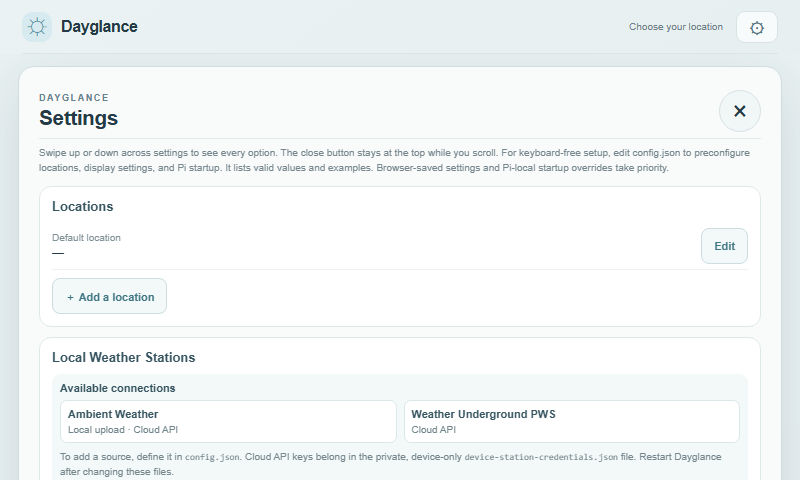
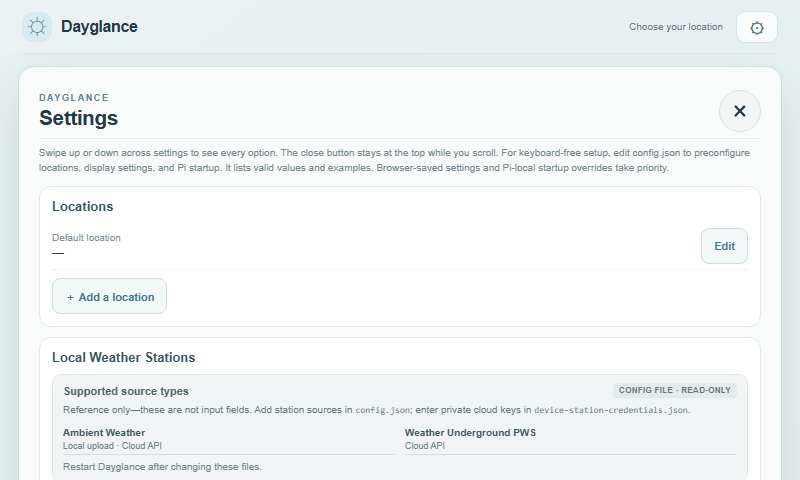
fix: distinguish config-only station options

Changed region(s): [[0.0625, 0.7812, 0.9062, 1.0]]

diff --git a/styles.css b/styles.css
@@ -21,7 +21,7 @@
 .hourly-navigation .hourly-list{scrollbar-width:none}.hourly-navigation .hourly-list::-webkit-scrollbar{display:none}
 @media(max-width:650px){.settings-screen{inset:48px 0 0;padding:8px}.settings-card{padding:13px}.settings-grid{grid-template-columns:1fr}.location-settings{grid-column:auto}.settings-section{padding:10px}}
 @media(max-height:420px){.settings-screen{inset:42px 0 0;padding:6px}.settings-card{padding:10px}.settings-grid{gap:6px;margin-top:6px}.settings-section{padding:8px}.settings-section h2{margin-bottom:5px}.setting-row{min-height:35px}.settings-heading{padding-bottom:5px}}
-.station-observation-status{display:block;margin:2px 0 0 7px;color:#397a65;font-size:9px;font-weight:600;line-height:1.2}.current-today-button{grid-template-rows:1fr auto auto}.station-settings{grid-column:1/-1}.station-supported-options{padding:8px;border-radius:9px;background:#f3f8f8;color:#365560;font-size:11px}.station-supported-options>strong{display:block;margin-bottom:6px}.station-option-list{display:grid;grid-template-columns:1fr 1fr;gap:7px}.station-option{display:grid;gap:4px;padding:7px;border:1px solid #dbe8e9;border-radius:7px;background:#fff}.station-option span{font-weight:700}.station-option small{color:#71858c;font-size:10px}.station-supported-options code{font-size:9px}.station-empty{padding:5px 0}.station-integration-row{display:grid;grid-template-columns:minmax(0,1fr) minmax(155px,220px);align-items:center;gap:10px;min-height:52px;padding:6px 0;border-bottom:1px solid #edf1f2}.station-integration-row:last-child{border-bottom:0}.station-integration-name{display:grid;gap:3px;min-width:0}.station-integration-name strong{font-size:12px;overflow:hidden;text-overflow:ellipsis}.station-integration-name small{font-size:10px;color:#819198}.station-integration-row select{width:100%;min-width:0;height:38px;padding:0 9px;border:1px solid #cfdddf;border-radius:8px;background:#fff;color:var(--ink);font-size:11px}.station-integration-row select:focus-visible{outline:3px solid #b6d8df}@media(max-width:650px){.station-integration-row{grid-template-columns:1fr;gap:6px}.station-settings{grid-column:auto}.station-option-list{grid-template-columns:1fr}}
+.station-observation-status{display:block;margin:2px 0 0 7px;color:#397a65;font-size:9px;font-weight:600;line-height:1.2}.current-today-button{grid-template-rows:1fr auto auto}.station-settings{grid-column:1/-1}.station-supported-options{padding:8px 10px;border:1px solid #e1e7e8;border-radius:9px;background:#f1f4f4;color:#50666d;font-size:11px}.station-supported-heading{display:flex;align-items:center;justify-content:space-between;gap:8px}.station-config-badge{padding:3px 6px;border-radius:4px;background:#e4e9e9;color:#64777b;font-size:8px;font-weight:700;letter-spacing:.04em;text-transform:uppercase}.station-reference-note{margin:5px 0;color:#657a80}.station-option-list{display:grid;grid-template-columns:1fr 1fr;gap:10px;margin:6px 0 2px}.station-option{display:grid;gap:3px;min-width:0;padding:3px 0;border:0;border-bottom:1px solid #d6dfe0;background:transparent}.station-option strong{font-size:10px;font-weight:700;color:#3e575f}.station-option small{color:#71858c;font-size:9px}.station-restart-note{margin:5px 0 0}.station-supported-options code{font-size:9px}.station-empty{padding:5px 0}.station-integration-row{display:grid;grid-template-columns:minmax(0,1fr) minmax(155px,220px);align-items:center;gap:10px;min-height:52px;padding:6px 0;border-bottom:1px solid #edf1f2}.station-integration-row:last-child{border-bottom:0}.station-integration-name{display:grid;gap:3px;min-width:0}.station-integration-name strong{font-size:12px;overflow:hidden;text-overflow:ellipsis}.station-integration-name small{font-size:10px;color:#819198}.station-integration-row select{width:100%;min-width:0;height:38px;padding:0 9px;border:1px solid #cfdddf;border-radius:8px;background:#fff;color:var(--ink);font-size:11px}.station-integration-row select:focus-visible{outline:3px solid #b6d8df}@media(max-width:650px){.station-integration-row{grid-template-columns:1fr;gap:6px}.station-settings{grid-column:auto}.station-option-list{grid-template-columns:1fr}}
 .settings-location-actions{display:flex;gap:6px}.hourly-list::-webkit-scrollbar-thumb{border-width:6px}
 .settings-screen{overflow-x:hidden;overflow-y:auto;overscroll-behavior-y:contain;-webkit-overflow-scrolling:touch;touch-action:pan-y pinch-zoom;scrollbar-width:none;-ms-overflow-style:none}
 .settings-screen::-webkit-scrollbar{display:none;width:0;height:0}

diff --git a/index.html b/index.html
@@ -138,12 +138,13 @@
             <section class="settings-section station-settings" id="station-settings">
               <h2>Local Weather Stations</h2>
               <div class="station-supported-options" aria-label="Supported weather-station connections">
-                <strong>Available connections</strong>
+                <div class="station-supported-heading"><strong>Supported source types</strong><span class="station-config-badge">Config file · read-only</span></div>
+                <p class="settings-help station-reference-note">Reference only—these are not input fields. Add station sources in <code>config.json</code>; enter private cloud keys in <code>device-station-credentials.json</code>.</p>
                 <div class="station-option-list">
-                  <div class="station-option"><span>Ambient Weather</span><small>Local upload · Cloud API</small></div>
-                  <div class="station-option"><span>Weather Underground PWS</span><small>Cloud API</small></div>
+                  <div class="station-option"><strong>Ambient Weather</strong><small>Local upload · Cloud API</small></div>
+                  <div class="station-option"><strong>Weather Underground PWS</strong><small>Cloud API</small></div>
                 </div>
-                <p class="settings-help">To add a source, define it in <code>config.json</code>. Cloud API keys belong in the private, device-only <code>device-station-credentials.json</code> file. Restart Dayglance after changing these files.</p>
+                <p class="settings-help station-restart-note">Restart Dayglance after changing these files.</p>
               </div>
               <div id="station-integrations-list"></div>
               <p class="settings-help">A city can use one configured station for current observations. Forecasts stay with the weather provider. Weathercloud does not currently provide an official API for retrieving station data.</p>

diff --git a/tests/test_server_config.py b/tests/test_server_config.py
@@ -105,9 +105,15 @@ class DeviceSettingsConfigTests(unittest.TestCase):
             page = response.read().decode("utf-8")
         settings = page.split('id="station-settings"', 1)[1].split("</section>", 1)[0]
         self.assertNotIn("hidden", settings.split(">", 1)[0])
-        self.assertIn("Ambient Weather", settings)
-        self.assertIn("Local upload · Cloud API", settings)
-        self.assertIn("Weather Underground PWS", settings)
+        providers = settings.split('<div class="station-supported-options"', 1)[1].split('<div id="station-integrations-list"', 1)[0]
+        self.assertIn("Ambient Weather", providers)
+        self.assertIn("Local upload · Cloud API", providers)
+        self.assertIn("Weather Underground PWS", providers)
+        self.assertIn("Config file · read-only", providers)
+        self.assertIn("Reference only—these are not input fields", providers)
+        self.assertNotIn("<input", providers)
+        self.assertNotIn("<select", providers)
+        self.assertNotIn("<button", providers)
         self.assertIn("device-station-credentials.json", settings)
 
     def test_device_file_overrides_config_defaults(self):

diff --git a/tests/test_weather_station.py b/tests/test_weather_station.py
@@ -111,6 +111,17 @@ class StationConfigurationTests(unittest.TestCase):
         with self.assertRaisesRegex(ValueError, "Only one enabled"):
             server.load_station_configuration()
 
+    def test_supports_station_data_for_more_than_three_cities(self):
+        sources = [
+            {"id": f"station-{index}", "provider": "ambient-weather", "connection": "local-upload",
+             "enabled": True, "sourceIp": f"192.168.1.{60 + index}", "locationId": f"city-{index}"}
+            for index in range(1, 5)
+        ]
+        self.write_config(stationIntegrations=sources)
+        result = server.load_station_configuration()
+        self.assertEqual([source["locationId"] for source in result["integrations"]],
+                         ["city-1", "city-2", "city-3", "city-4"])
+
     def test_valid_ambient_cloud_station_does_not_need_receiver_address_or_secret_in_config(self):
         self.write_config(
             stationReceiver={"bindAddress": "127.0.0.1", "port": 8082, "path": "/upload"},

diff --git a/docs/guides/CONFIGURATION.md b/docs/guides/CONFIGURATION.md
@@ -101,7 +101,7 @@ Browser preferences changed in the Settings menu are stored in that browser and 
 
 ## Local weather-station integration
 
-Each saved city may be associated with zero or one station observation source. **Settings → Local Weather Stations** always lists the supported connection types, even before a source has been configured, and shows any configured feeds with their status; it also lets you associate a source with a saved city. Adding/removing a source remains a `config.json` change, while credentials are kept separately in the private device-only credentials file. A station does not become an extra carousel location: its live measurements appear on the selected city's dashboard, while the forecast and hourly view continue to use Open-Meteo. Station values are labeled as observations and automatically stop being used when their observation timestamp is older than `staleAfterSeconds`.
+Each saved city may be associated with zero or one station observation source. **Settings → Local Weather Stations** always lists the supported connection types, even before a source has been configured, and shows any configured feeds with their status; it also lets you associate a source with a saved city. The supported-source panel is informational and read-only; sources are added through `config.json`, while credentials are kept separately in the private device-only credentials file. There is no three-city cap: add an integration entry for every city/station pair, with unique source IDs; provider quotas and the one-source-per-city rule still apply. A station does not become an extra carousel location: its live measurements appear on the selected city's dashboard, while the forecast and hourly view continue to use Open-Meteo. Station values are labeled as observations and automatically stop being used when their observation timestamp is older than `staleAfterSeconds`.
 
 Ambient Weather supports two connections:
 

diff --git a/docs/guides/LOCAL_STATIONS.md b/docs/guides/LOCAL_STATIONS.md
@@ -36,7 +36,7 @@ Edit the project-root `config.json`. Set `bindAddress` to the Pi's private LAN i
 ]
 ```
 
-The addresses are examples, not a recommended range. The Pi address must be assigned to its network interface; the station source address must match the sender address seen by the Pi. `id` is unique and stable. `name` is the label shown in Settings. `locationId` can be null and is normally selected in Settings. A city can have at most one station. `staleAfterSeconds` accepts 30–3600 and controls how long a reading can be used after its observation timestamp.
+The addresses are examples, not a recommended range. The Pi address must be assigned to its network interface; the station source address must match the sender address seen by the Pi. `id` is unique and stable. `name` is the label shown in Settings. `locationId` can be null and is normally selected in Settings. A city can have at most one station, but Dayglance does not impose a three-city limit: add one `stationIntegrations` entry for each city/station pair. Keep IDs and local station source IPs unique. `staleAfterSeconds` accepts 30–3600 and controls how long a reading can be used after its observation timestamp.
 
 The listener refuses `0.0.0.0`, loopback, and public bind addresses. It accepts requests only on the configured path from configured station IPs. Keep the port limited to your trusted LAN with your router/firewall. Do not place station passwords, API keys, or other credentials in `config.json`; this config is served to the browser. The upload protocol may include an ID and password field; Dayglance ignores these values and never logs upload query strings.
 

diff --git a/AGENTS.md b/AGENTS.md
@@ -26,6 +26,7 @@ These instructions apply to AI agents working in this repository. Follow the use
 - Run the relevant commands in [CODING_STANDARDS.md](docs/project/CODING_STANDARDS.md). For broad changes, use the same checks as the `CI / Verify` workflow.
 - For UI changes, inspect the affected behavior at 800×480 and update genuine screenshots and user documentation when the visible behavior or setup instructions change. Do not claim device testing unless it was performed on the device.
 - Before calling a feature complete or deploying it, map each advertised capability to its user-visible entry point and activation steps. Verify that the control or supported option is actually discoverable in the running app, not only implemented in a backend or config parser; if setup requires files or credentials, show that clearly in the relevant screen and documentation.
+- Make the interaction type clear: editable controls must look and behave like inputs; read-only capability lists or config-file-only options must be labeled as informational and must not resemble text fields or buttons.
 - Follow [DESIGN_NOTES.md](docs/project/DESIGN_NOTES.md) for touch-first interaction decisions.
 - Report checks that could not run and why. Do not hide failures or claim that a check passed based only on a command being started.
 - Keep `AGENTS.md`, the coding standards, contributor guidance, and CI workflow consistent when changing development practices.

diff --git a/docs/project/CODING_STANDARDS.md b/docs/project/CODING_STANDARDS.md
@@ -21,6 +21,7 @@ Dayglance is a small, dependency-light application intended to run on Raspberry 
 - Never put API keys, passwords, or other secrets in `config.json`, which the local web server serves to browsers. Keep any future provider credentials in a separate device-local server-side store with restricted permissions.
 - Preserve attribution and the license/terms required by each data source.
 - Do not call backend or configuration support a finished user-facing feature until its entry point and activation steps are discoverable in the running app or clearly shown in the relevant settings screen.
+- Distinguish editable controls from read-only information visually and semantically; config-file-only options must be explicitly labeled and must not look like text-entry fields or buttons.
 
 ## Verification expected for changes
 
